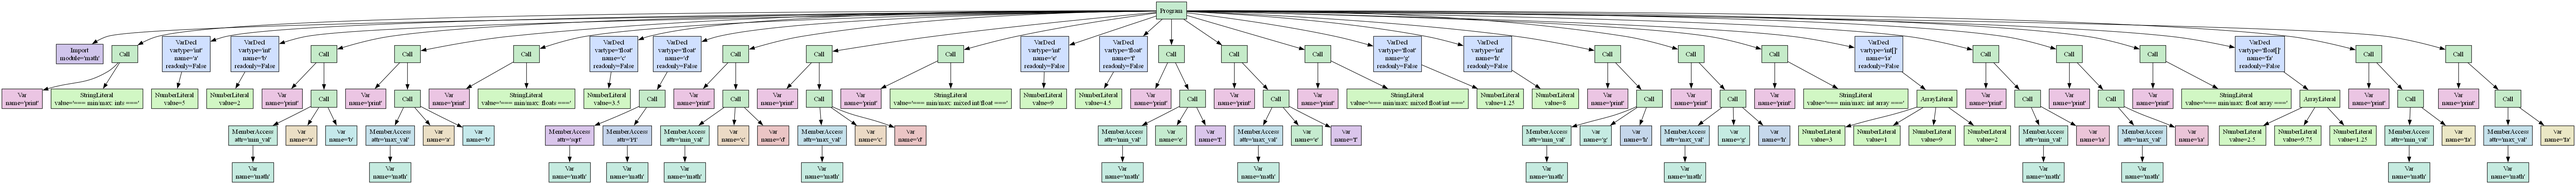
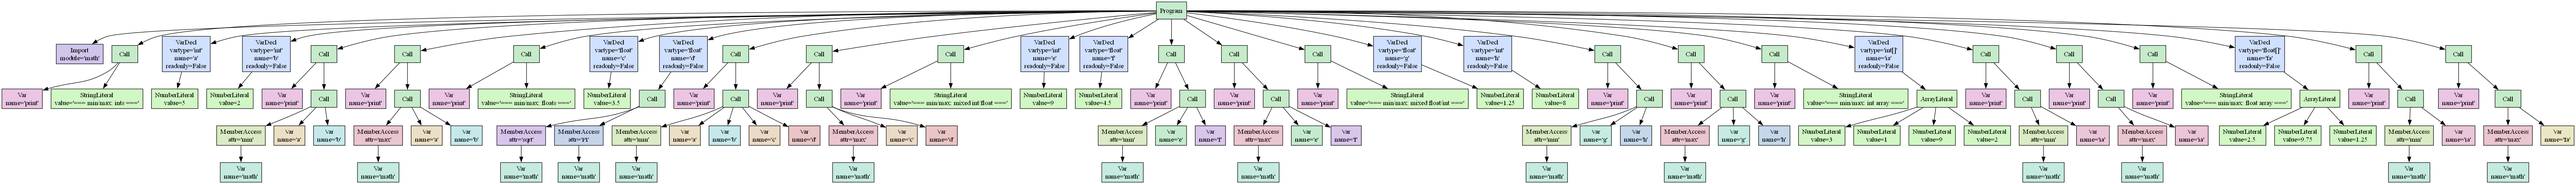
arrays added to math min/max

diff --git a/mars_compiler/builtins/math.py b/mars_compiler/builtins/math.py
@@ -72,24 +72,24 @@ def atan2(y, x):
 
 # --- Min / Max ---
 @_sig(params=[["float", "..."], ["array<float>"], ["array<int>"]], ret="float")  # variadic or array
-def min_val(*args):
+def min(*args):
     if len(args) == 1 and isinstance(args[0], list):
         seq = args[0]
     else:
         seq = list(args)
     if len(seq) == 0:
-        raise ValueError("min_val expects at least one value")
-    return float(min(seq))
+        raise ValueError("min expects at least one value")
+    return float(builtins.min(seq))
 
 @_sig(params=[["float", "..."], ["array<float>"], ["array<int>"]], ret="float")  # variadic or array
-def max_val(*args):
+def max(*args):
     if len(args) == 1 and isinstance(args[0], list):
         seq = args[0]
     else:
         seq = list(args)
     if len(seq) == 0:
-        raise ValueError("max_val expects at least one value")
-    return float(max(seq))
+        raise ValueError("max expects at least one value")
+    return float(builtins.max(seq))
 
 # --- Constants ---
 PI = _math.pi
@@ -117,8 +117,8 @@ MATH_FUNCS = {
     'atan2': atan2,
 
     # Min/Max
-    'min_val': min_val,
-    'max_val': max_val,
+    'min': min,
+    'max': max,
 
     # Constants
     'PI': PI,
